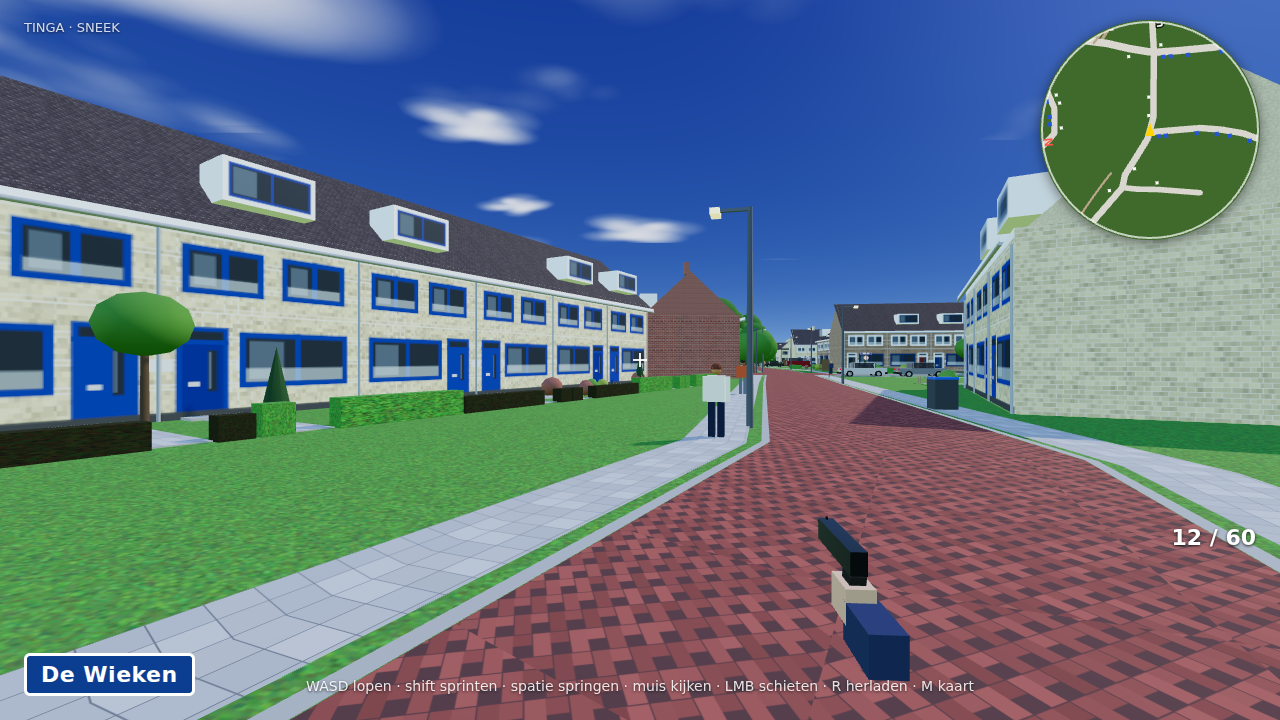
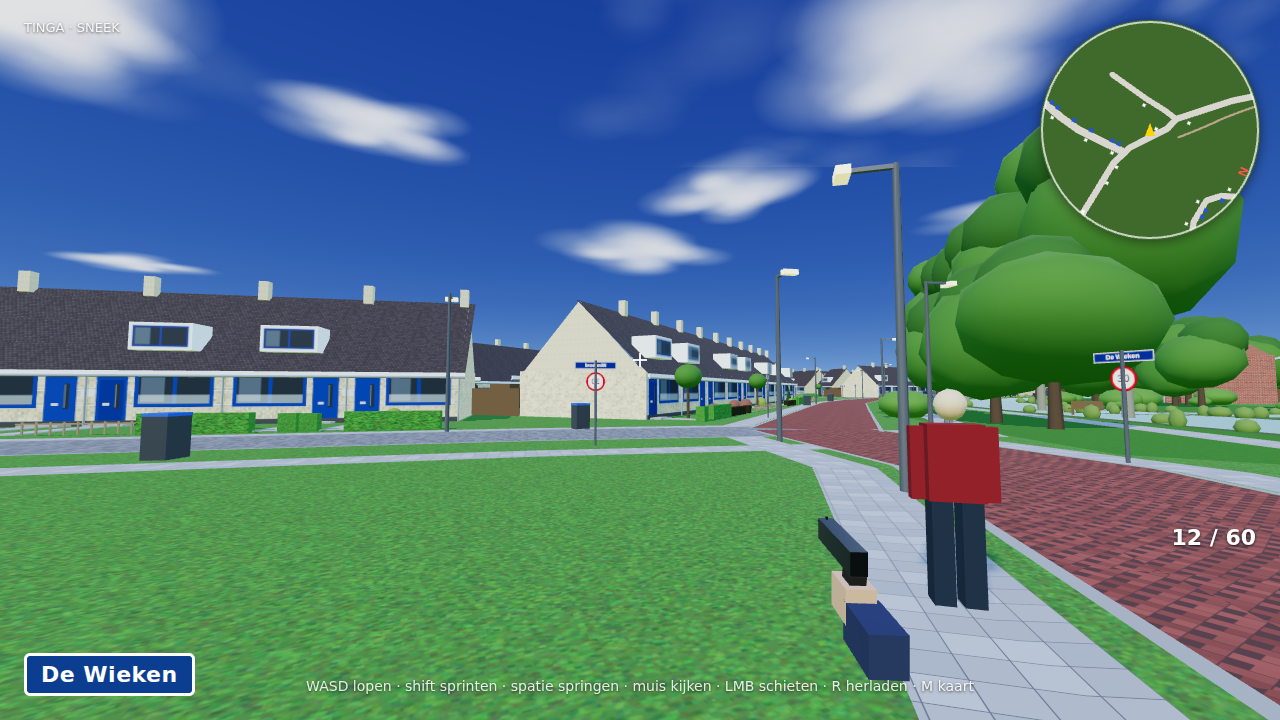
De Wieken zijn bungalows met de woonruimte in de kap, en Bovenas herzien
- De woningen aan De Wieken stonden er als twee volle bouwlagen in, maar op de
  foto is het een bouwlaag met een groot dak waar de dakkapellen in zitten.
  Goothoogte nu 2,9 m in plaats van 5,8 m, nokhoogte 7,5 m
- Bij een bungalow zit de woonruimte in de kap, dus een lage gevel krijgt nu
  automatisch een hoger dak zodat de dakkapellen erin passen
- De Wieken en de bungalows aan Bovenas krijgen schoorstenen, zoals op de foto
- Bovenas is een bredere klinkerstraat met parkeren: bungalows met dakkapellen
  aan de oostzijde, twee lagen aan de westzijde en de flats aan het zuideind

Claude-Session: https://claude.ai/code/session_01CgvJ3cT2qTz68qbaTBhnbp

diff --git a/js/textures.js b/js/textures.js
@@ -249,8 +249,8 @@ export const HOUSE_STYLES = {
   molenpaal:  { brick: ['#d3bd8e', '#e5dccb'], frame: '#ffffff', frame2: '#ffffff', door: ['#2a2a2a', '#1f3a6e', '#4a4a4a'], roof: '#453b37', roofType: 'gable', storeys: 2, w: 5.6, dormer: true, dormerBand: true, chimney: false, solar: true, band: '#f2f2f2' },
   jasker_flat:{ brick: ['#e0d0a6', '#e8e0cd'], frame: '#2b2b2b', frame2: '#2b2b2b', door: ['#2b2b2b', '#3a3a3a'], roof: '#555', roofType: 'flat', storeys: 2, w: 5.6, dormer: false, chimney: false, band: '#2b2b2b' },
   jasker_gable:{ brick: ['#dcc89a', '#e5ddcb'], frame: '#ffffff', frame2: '#ffffff', door: ['#2a2a2a', '#1f3a6e', '#6a1a1a'], roof: '#453b37', roofType: 'gable', storeys: 2, w: 5.6, dormer: false, chimney: true, band: '#f2f2f2' },
-  wieken_white:{ brick: ['#d9c9a0', '#e6dfcd'], frame: '#1746a0', frame2: '#1746a0', door: ['#1746a0', '#1746a0', '#12388a'], roof: '#453b37', roofType: 'gable', storeys: 2, w: 5.5, dormer: true, chimney: false, band: '#f4f4f4' },
-  wieken_yellow:{ brick: ['#cfbf94', '#e2dac6'], frame: '#1746a0', frame2: '#1746a0', door: ['#1746a0', '#12388a'], roof: '#433934', roofType: 'gable', storeys: 2, w: 5.5, dormer: true, chimney: false, solar: true, band: '#f4f4f4' },
+  wieken_white:{ brick: ['#d9c9a0', '#e6dfcd'], frame: '#1746a0', frame2: '#1746a0', door: ['#1746a0', '#1746a0', '#12388a'], roof: '#453b37', roofType: 'gable', storeys: 1, w: 5.5, dormer: true, chimney: true, band: '#f4f4f4' },
+  wieken_yellow:{ brick: ['#cfbf94', '#e2dac6'], frame: '#1746a0', frame2: '#1746a0', door: ['#1746a0', '#12388a'], roof: '#433934', roofType: 'gable', storeys: 1, w: 5.5, dormer: true, chimney: true, solar: true, band: '#f4f4f4' },
   bonkelaar:  { brick: ['#8e4a3a', '#c9bfae'], frame: '#ffffff', frame2: '#ffffff', door: ['#2a2a2a', '#1f3a6e', '#3a6e2a'], roof: '#4a3327', roofType: 'gable', storeys: 2, w: 6.4, dormer: false, chimney: true, band: '#f2f2f2', semi: true },
   detached:   { brick: ['#7e5a48', '#c9bfae'], frame: '#ffffff', frame2: '#ffffff', door: ['#2a2a2a', '#5a2d1a'], roof: '#3b3432', roofType: 'gable', storeys: 2, w: 10.0, dormer: false, chimney: true, band: '#f2f2f2', solar: true, detached: true },
   appart:     { brick: ['#d6c08c', '#e5dccb'], frame: '#ffffff', frame2: '#ffffff', door: ['#2b2b2b'], roof: '#555', roofType: 'flat', storeys: 3, w: 7.0, dormer: false, chimney: false, band: '#f2f2f2', balcony: true },

diff --git a/js/data.js b/js/data.js
@@ -94,7 +94,7 @@ export const ROADS = [
     pts: [[-10,1345],[20,1355],[50,1380],[100,1420],[150,1440],[230,1450],[305,1460]] },
   { name: 'De Wieken', type: 'rood', w: 4.8, verge: 2.4, walk: 'LR',
     pts: [[305,1460],[380,1465],[480,1462],[560,1465],[595,1470]] },
-  { name: 'Bovenas', type: 'klinker', w: 4.8, verge: 2.4, walk: 'LR', bays: 'R',
+  { name: 'Bovenas', type: 'klinker', w: 5.6, vergeL: 1.0, vergeR: 2.6, walk: 'LR', bays: 'R',
     pts: [[105,1450],[112,1500],[110,1550],[100,1600],[85,1650],[60,1700],[30,1740],[0,1770],[-40,1800]] },
   { name: 'Windbord', type: 'klinker', w: 4.2, vergeL: 2.2, vergeR: 0.4, walk: 'LR',
     pts: [[-10,1345],[-18,1380],[-25,1430],[-35,1480],[-45,1530]] },
@@ -272,7 +272,8 @@ R(-12,1360, -45,1530, -11, 9, 'wieken_white');
 R(-14,1372, -45,1528,  11, 9, 'wieken_yellow');
 
 // ===== Bovenas =====
-R(104,1545, 60,1700, -12, 14, 'appart', { storeys: 3 });
+R(104,1500, 66,1660, -13, 10, 'jasker_flat');    // westzijde: twee lagen met balkons
+R(60,1700, 20,1770, -13, 14, 'appart', { storeys: 3 });  // flats aan het zuideind
 // blok tussen Bovenas en Molenkrite-zuid: oost-west rijen
 R(150,1447, 255,1455, -13, 9, 'molenkrite');
 R(150,1447, 255,1455, -53, 9, 'molenkrite', { flip: true });
@@ -314,7 +315,7 @@ R(30,1362, 245,1452,    10, 9, 'wieken_white');    // noordzijde oost-westdeel
 // Voorzoom en Windbord over de volle lengte
 R(-190,1128, -372,1110, -12, 9, 'wieken_yellow');
 // Bovenas oostzijde
-R(108,1500, 55,1712,    12, 9, 'wieken_yellow');
+R(108,1500, 55,1712,    11, 9, 'wieken_white');   // oostzijde: bungalows met dakkapellen
 R(30,1740, -38,1798,    12, 9, 'wieken_white');
 
 // Molenkrite zuid: rijen aan weerszijden

diff --git a/js/world.js b/js/world.js
@@ -471,7 +471,10 @@ function buildRow(scene, row, idx) {
   const rotY = Math.PI / 2 - yaw;
   const dLocal = new THREE.Vector2(Math.cos(rotY), -Math.sin(rotY));
   const facadeH = storeys * 2.9;
-  const roofH = st.roofType === 'gable' ? Math.min(4.2, depth * 0.5) : (st.roofType === 'low' ? 1.6 : 0);
+  // Bij bungalows zit de woonruimte in de kap: een lage gevel krijgt een hoger dak.
+  const roofH = st.roofType === 'gable'
+    ? (storeys === 1 ? Math.min(4.6, depth * 0.55) : Math.min(4.2, depth * 0.5))
+    : (st.roofType === 'low' ? 1.6 : 0);
 
   // kandidaat-woningen langs de rij
   let cand = [];

diff --git a/README.md b/README.md
@@ -66,9 +66,9 @@ Molenpaal, Bonkelaar).
 |---|---|---|---|
 | ![Monnikmolen](docs/screenshots/monnikmolen.png) | ![Bonkelaar](docs/screenshots/bonkelaar.png) | ![Jasker](docs/screenshots/jasker.png) | ![Kruirad](docs/screenshots/kruirad.png) |
 
-| Parkje De Wieken | De Wieken | Molenkrite |
-|---|---|---|
-| ![Parkje](docs/screenshots/parkje.png) | ![De Wieken](docs/screenshots/dewieken.png) | ![Molenkrite](docs/screenshots/molenkrite.png) |
+| Parkje De Wieken | De Wieken | Molenkrite | Bovenas |
+|---|---|---|---|
+| ![Parkje](docs/screenshots/parkje.png) | ![De Wieken](docs/screenshots/dewieken.png) | ![Molenkrite](docs/screenshots/molenkrite.png) | ![Bovenas](docs/screenshots/bovenas.png) |
 
 | Overzicht vanaf Molenpaal | Kaart (toets M) |
 |---|---|
